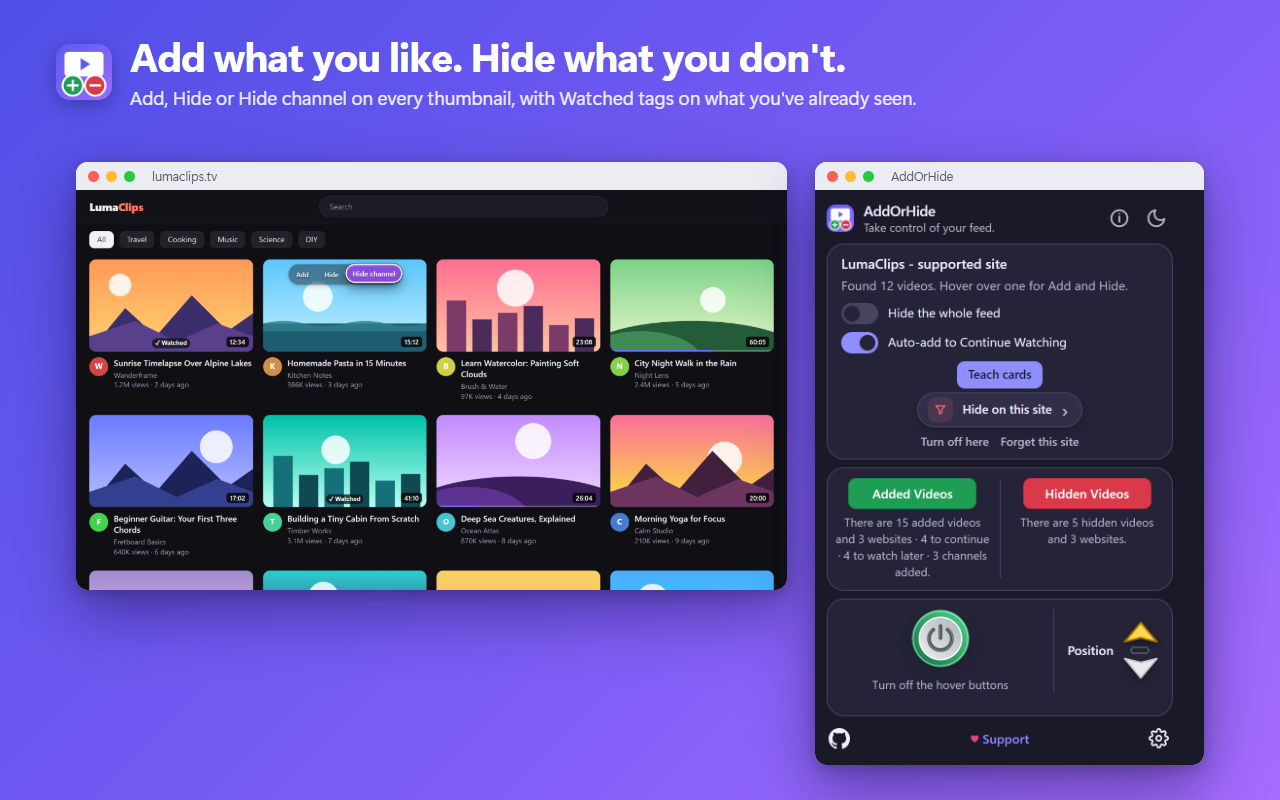
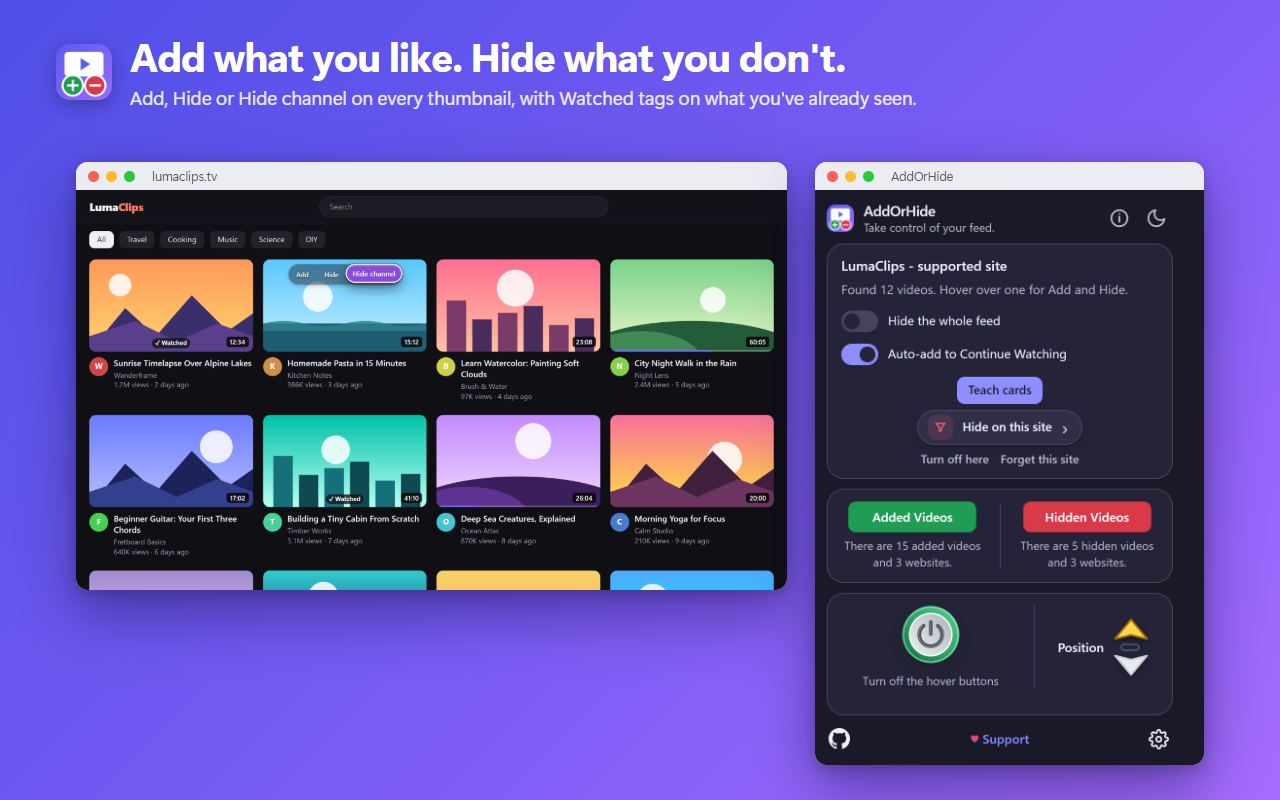
1.1.0: popup summary under Added Videos gives only videos and sites, with the room returned to the spacing; divider between power and Position moved left; screenshots regenerated

Changed region(s): [[0.6562, 0.3125, 0.9062, 0.875], [0.8125, 0.7812, 0.9062, 0.8438], [0.875, 0.9062, 0.9062, 0.9375]]

diff --git a/tests/popup.test.js b/tests/popup.test.js
@@ -172,21 +172,21 @@ async function loadPopup({ url = "https://tubitv.com/", siteRules, seenRows, sta
   assert.deepEqual(pbsMissingPlayer.registeredScripts.map(script => script.matches[0]), ["https://player.pbs.org/*"], "player permission registers the player-frame script");
   pbsMissingPlayer.window.close();
   const laterPopup = await loadPopup({ watchLater: { "https://www.youtube.com/watch?v=popupwatch1": { title: "Later", thumb: "", site: "youtube.com", url: "https://www.youtube.com/watch?v=popupwatch1", ts: 1 } } });
-  assert.match(laterPopup.document.querySelector("#added-summary").textContent, /1 to watch later/, "popup includes Watch Later in its compact summary");
+  assert.match(laterPopup.document.querySelector("#added-summary").textContent, /1 added video/, "popup counts a Watch Later video");
   assert.equal(laterPopup.document.querySelector("#open-added-button").disabled, false, "Watch Later alone enables Added Videos");
   laterPopup.window.close();
   const channelsPopup = await loadPopup({ addedItems: { "https://www.youtube.com/@creator": { title: "Creator", thumb: "", kind: "channel", site: "youtube.com", ts: 1 } } });
-  assert.match(channelsPopup.document.querySelector("#added-summary").textContent, /1 channel added/, "popup summarizes channels separately from videos");
+  assert.match(channelsPopup.document.querySelector("#added-summary").textContent, /No added videos/, "popup counts videos only, not channels");
   assert.equal(channelsPopup.document.querySelector("#open-added-button").disabled, false, "channels alone enable Added Videos");
   channelsPopup.window.close();
   const mixedPopup = await loadPopup({ addedItems: {
     "https://www.youtube.com/watch?v=popupvid001": { title: "Video", thumb: "", site: "youtube.com", ts: 1 },
     "https://rumble.com/c/creator": { title: "Creator", thumb: "", kind: "channel", site: "rumble.com", ts: 2 }
   } });
-  assert.match(mixedPopup.document.querySelector("#added-summary").textContent, /1 added video.*1.*website.*1 channel added/, "popup video-site summary excludes a channel-only site");
+  assert.match(mixedPopup.document.querySelector("#added-summary").textContent, /^There is 1 added video and 1\swebsite\.$/, "popup video-site summary excludes a channel-only site");
   mixedPopup.window.close();
   const categoriesPopup = await loadPopup({ addedItems: { "https://www.twitch.tv/directory/category/just-chatting": { title: "Just Chatting", thumb: "", kind: "category", site: "twitch.tv", ts: 1 } } });
-  assert.match(categoriesPopup.document.querySelector("#added-summary").textContent, /1 category added/, "popup summarizes categories separately from videos");
+  assert.match(categoriesPopup.document.querySelector("#added-summary").textContent, /No added videos/, "popup counts videos only, not categories");
   assert.equal(categoriesPopup.document.querySelector("#open-added-button").disabled, false, "categories alone enable Added Videos");
   categoriesPopup.window.close();
   console.log("popup.test.js: 46 passed, 0 failed");

diff --git a/popup.js b/popup.js
@@ -583,14 +583,12 @@ function render() {
   const categoryCount = addedEntries.filter(([key, entry]) => entry && (entry.kind === "category" || HOA.kindOf(key) === "category")).length;
   const videoAdded = Object.fromEntries(addedEntries.filter(([key, entry]) => !entry || ((entry.kind !== "channel" && HOA.kindOf(key) !== "channel") && (entry.kind !== "category" && HOA.kindOf(key) !== "category"))));
   const addedCount = Object.keys(videoAdded).length;
-  const continuing = Object.values(watchProgress).filter(entry => entry && entry.cw && !entry.watched).length;
-  const later = Object.keys(watchLater || {}).length;
-  openAddedButton.disabled = addedCount === 0 && channelCount === 0 && categoryCount === 0 && continuing === 0 && later === 0;
-  addedSummary.textContent = addedCount || !continuing ? continuing ? `${HOA.addedCountText(addedCount, HOA.groupBySite(videoAdded).length).replace(/\.$/, "")} · ${continuing} to continue.` : HOA.addedCountText(addedCount, HOA.groupBySite(videoAdded).length)
-    : `${continuing} to continue watching.`;
-  if (later) addedSummary.textContent = `${addedSummary.textContent.replace(/\.$/, "")} · ${later} to watch later.`;
-  if (channelCount) addedSummary.textContent = `${addedSummary.textContent.replace(/\.$/, "")} · ${channelCount} channel${channelCount === 1 ? "" : "s"} added.`;
-  if (categoryCount) addedSummary.textContent = `${addedSummary.textContent.replace(/\.$/, "")} · ${categoryCount} ${categoryCount === 1 ? "category" : "categories"} added.`;
+  const continuing = Object.keys(watchProgress).filter(key => watchProgress[key] && watchProgress[key].cw && !watchProgress[key].watched);
+  const later = Object.keys(watchLater || {});
+  openAddedButton.disabled = addedCount === 0 && channelCount === 0 && categoryCount === 0 && continuing.length === 0 && later.length === 0;
+  // Just videos and sites: every video the page lists, each counted once, whichever list it is on.
+  const videoKeys = new Set([...Object.keys(videoAdded), ...continuing, ...later]);
+  addedSummary.textContent = HOA.addedCountText(videoKeys.size, new Set(Array.from(videoKeys, HOA.siteOf)).size);
   schedulePositionBreathingRoom();
 }
 

diff --git a/pages.css b/pages.css
@@ -324,7 +324,7 @@ button.filter-chip { min-height: 23px; padding: 2px 7px; color: var(--text); bac
 .popup .popup-header #page-details-toggle { margin-left: auto; }
 .popup .popup-header #theme-toggle { margin-left: -6px; }
 .popup .panel { margin-bottom: 8px; }
-.popup .lists-card { padding: 10px 8px; }
+.popup .lists-card { padding: 12px 8px; }
 .lists-card .list-column { gap: 5px; }
 .popup .button-controls { gap: 12px; padding-bottom: 2px; }
 .popup .popup-edge { margin-bottom: 6px; }
@@ -395,10 +395,12 @@ button.filter-tool:disabled { opacity: .4; cursor: default; }
    If a very long summary still overflows, the scrollbar shows, so nothing is out of reach unseen. */
 body.popup main { scrollbar-width: thin; }
 .popup .popup-header { margin-bottom: 4px; padding-bottom: 4px; }
-.popup .panel { margin-bottom: 8px; padding: 10px 14px; }
-.popup .lists-card { padding: 10px 8px; }
-.popup .switch-row { min-height: 30px; }
-.popup .teach-actions { margin: 4px 0; }
-.popup #site-content p { margin-bottom: 4px; }
-.popup .filter-launch { margin-top: 4px; }
+.popup .panel { margin-bottom: 10px; padding: 12px 14px; }
+.popup .lists-card { padding: 12px 8px; }
+.popup .switch-row { min-height: 34px; }
+.popup .teach-actions { margin: 6px 0; }
+.popup #site-content p { margin-bottom: 6px; }
+.popup .filter-launch { margin-top: 6px; }
 .popup .site-links { justify-content: center; margin-top: 6px; }
+/* Room either side of Position moves the divider left and centres Position in its half. */
+.popup .position-row { padding: 0 10px; }
